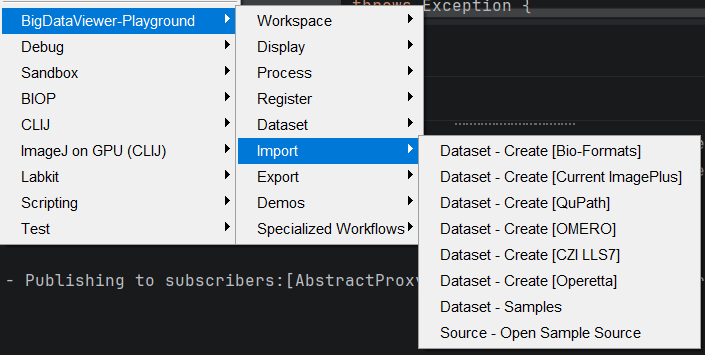
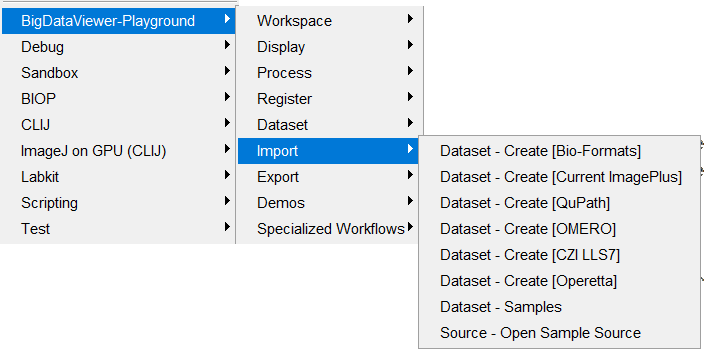
Adds some more details to dataset definition. Adds a bit more detail to the tree view Fix OMERO url in example. Fix images in opening_images.md Adds BVV limitation Moves image out of GUI tab Fix partially bdv navigation commands Fix menuselection Fix cache command parameters

diff --git a/docs/source/opening_images/opening_images.md b/docs/source/opening_images/opening_images.md
@@ -4,14 +4,19 @@ This guide covers how to get your image data into BigDataViewer Playground.
 
 ## What Is a Dataset?
 
-When you open images in BigDataViewer Playground, they become a **dataset**. Understanding what a dataset is will help you work with every other feature.
+When you open images in BigDataViewer Playground, they become a **dataset**. Understanding what a dataset is will help you work with every other feature. A dataset is composed of many sources, each source representing a XYZT pixel dataset. Each source has additional metadata, to specify their other properties within the dataset (channel, tile, illumination, etc.). 
 
-A dataset is a unified representation of your images that holds two things:
+A dataset is a unified representation of your images that holds three things:
 
 1. **A recipe to read the raw data** — the dataset doesn't copy your pixels. It stores a reference to the original source (a file on disk, an OMERO server, a QuPath project, etc.) and reads data on demand.
 2. **Spatial metadata** — position, orientation, and calibration of each image, stored as a chain of 3D affine transforms. Each channel and timepoint can have its own chain of transforms.
+3. **Source metadata** — channel name and index, tiles, angle, illumination, etc. These are also called `Entities` in BigDataViewer's jargon. This helps to regroup source by kind (all tiles of channel 2, for instance).
 
 This design means you can open terabyte-scale images instantly — no data is loaded until you actually look at it or export it. And when you register, drift-correct, or transform your data, those operations simply add transforms to the chain rather than rewriting pixels.
+
+:::{note}
+The pixel data from a Dataset are 'immutable', this means that you can't modify the pixel data of the dataset. Think of this as a "read-only" file. However you'll be able to compute new data resulting from the processing of Datasets, which can then be saved and exported as new Datasets. 
+:::
 
 ### Saving and Reloading Datasets
 
@@ -19,7 +24,7 @@ Datasets can be **saved to an XML file** and reloaded later. The XML file stores
 
 - Which backend to use (Bio-Formats, OMERO, etc.) and how to reach the raw data
 - The full chain of affine transforms for each channel and timepoint
-- Display settings
+- Other sources metadata and display settings (color, min max display range)
 
 This means you can set up a complex multi-image, multi-channel dataset, save it, and pick up exactly where you left off — or share it with a collaborator who has access to the same raw files.
 
@@ -37,15 +42,21 @@ All images you open appear in the **BigDataViewer Playground** panel, accessible
 
 ![The BDV Playground window showing the sources tree after opening the LLS7 dataset](images/sources_tree_BDV_Sources.png)
 
-The panel displays a **tree of sources**. Think of it as a pipeline of filters: every source you have opened lives at the root, and child nodes progressively narrow down the selection — by dataset, by channel, by tile, by timepoint, and so on. Because the filtering is additive, the same physical source can appear under multiple leaf nodes simultaneously.
+The panel displays a **tree of sources**. Think of it as a pipeline of filters: every source you have opened lives at the root, and child nodes progressively narrow down the selection — by dataset, by channel, by tile, by timepoint, and so on. The same source can appear under multiple leaf nodes simultaneously.
 
 For example, after opening a two-channel 3-D acquisition you might see:
 
 ```
 All Sources
-└── Hela-Kyoto-1-Timepoint-LLS7          ← dataset filter
-    ├── Channel 0                          ← channel filter
-    └── Channel 1
+└── Hela-Kyoto-1-Timepoint-LLS7         ← dataset filter                          
+    ├── All Sources
+    |       ├── Source Ch0 
+    |       └── Source Ch1
+    └── Channel                       
+        ├── Channel 0                   ← channel 0 filter
+        |       └── Source Ch0
+        └── Channel 1                   ← channel 1 filter 
+                └── Source Ch1
 ```
 
 **Interactions:**
@@ -189,7 +200,7 @@ cs.run(DatasetFromImagePlusCreateCommand, True,
 
 ### Dataset - Create [OMERO]
 
-Creates a dataset from images stored on an OMERO server. You must connect to the server first using `Plugins > BIOP > OMERO > Omero - Connect`.
+Creates a dataset from images stored on an OMERO server. You can connect to the server first using `Plugins > BIOP > OMERO > Omero - Connect`, or you will be prompted to connect if you're not yet connected to the server. 
 
 | Parameter | Description |
 |-----------|-------------|
@@ -217,7 +228,7 @@ run("Dataset - Create [OMERO]");
 import ch.epfl.biop.bdv.img.omero.command.DatasetFromOMEROCreateCommand
 
 cs.run(DatasetFromOMEROCreateCommand, true,
-    "omero_urls", "omero://your-server/image/1234",
+    "omero_urls", "https://omero.myorg.org/webclient/?show=image-1234,https://omero.myorg.org/webclient/?show=image-1235",
     "datasetname", "My OMERO Dataset",
     "plane_origin_convention", "TOP LEFT",
     "unit", "MICROMETER"
@@ -232,7 +243,7 @@ cs.run(DatasetFromOMEROCreateCommand, true,
 from ch.epfl.biop.bdv.img.omero.command import DatasetFromOMEROCreateCommand
 
 cs.run(DatasetFromOMEROCreateCommand, True,
-    ["omero_urls", "omero://your-server/image/1234",
+    ["omero_urls", "https://omero.myorg.org/webclient/?show=image-1234,https://omero.myorg.org/webclient/?show=image-1235",
      "datasetname", "My OMERO Dataset",
      "plane_origin_convention", "TOP LEFT",
      "unit", "MICROMETER"]
@@ -416,7 +427,7 @@ See the [LLS7 Timelapse workflow](../workflows/lls7_timelapse.md) for a complete
 
 ### Dataset - Samples
 
-Opens a sample dataset for testing and exploration. Downloads and caches on first use.
+Opens a sample dataset for testing and exploration. Downloads and caches (in `/home/CachedSamples/`) on first use.
 
 | Parameter | Description |
 |-----------|-------------|
@@ -585,7 +596,7 @@ cs.run(DatasetEntitiesRemoveCommand, True,
 
 ### Dataset - Make BigStitcher Compatible
 
-Converts a BigDataViewer Playground XML dataset to BigStitcher format.
+Converts a BigDataViewer Playground XML dataset to BigStitcher format. Essentially, this command will add a transform that will make each pixel of size 1 in XY, which is a BigStitcher convention.
 
 | Parameter | Description |
 |-----------|-------------|

diff --git a/docs/source/workspace/workspace.md b/docs/source/workspace/workspace.md
@@ -4,9 +4,8 @@ The workspace is the central hub of BigDataViewer Playground. It keeps track of 
 
 All workspace commands are found under:
 
-```
-Menu: Plugins > BigDataViewer-Playground > Workspace
-```
+
+{menuselection}`Plugins --> BigDataViewer-Playground --> Workspace`
 
 ---
 
@@ -14,9 +13,7 @@ Menu: Plugins > BigDataViewer-Playground > Workspace
 
 The main workspace interface is a window with a **hierarchical tree view** showing all sources currently loaded in the session.
 
-```
-Menu: Plugins > BigDataViewer-Playground > Workspace > Show BDV Playground Window
-```
+{menuselection}`Plugins --> BigDataViewer-Playground --> Workspace --> Show BDV Playground Window`
 
 This window is your primary way of interacting with sources outside of the viewers. Key interactions:
 
@@ -25,7 +22,7 @@ This window is your primary way of interacting with sources outside of the viewe
 - **Select multiple sources** to apply batch operations (e.g. show all selected sources in a viewer, export them together, apply the same transform)
 - Organize sources into **groups** for easier management
 
-The tree is organized hierarchically: datasets appear as top-level nodes, with individual channels, tiles, and timepoints nested below. As you process sources (fuse, classify, resample, etc.), the resulting virtual sources also appear in the tree.
+The tree is organized hierarchically: datasets appear as top-level nodes, with individual channels, tiles, and timepoints nested below. As you process sources (fuse, classify, resample, etc.), the resulting sources also appear in the tree, under the `Other Sources` node.
 
 :::{tip}
 If you close the BDV Playground window by accident, re-open it with **Show BDV Playground Window**. Your sources are not lost — the window is just a view into the workspace, not the workspace itself.
@@ -250,7 +247,7 @@ cs.run(SourceInspectCommand, True,
 
 ## State Save and Load
 
-You can save the entire workspace state — all sources, their display settings, and their transforms — to a JSON file, and restore it later. This is different from saving a dataset XML: the state captures *everything* in the workspace, including virtual sources created by processing commands.
+You can save the entire workspace state — all sources, their display settings, and their transforms — to a JSON file, and restore it later. This is different from saving a dataset XML: the state captures *everything* in the workspace, including virtual (lazy-computed) sources created by processing commands. Note: the processed data is not saved, but rather the "recipe" to compute data, which makes the saving near instantaneous. 
 
 ### State - Save
 
@@ -400,15 +397,24 @@ Use Dataset XML for archiving and sharing. Use State for checkpointing complex a
 
 ## Cache Options
 
-BigDataViewer Playground uses a cache to store recently accessed image tiles in memory, so that scrolling back to a region you've already visited is instantaneous. The cache settings control how much memory is allocated to this cache.
+BigDataViewer Playground uses a cache to store recently accessed image tiles in memory, so that scrolling back to a region you've already visited is instantaneous. The cache settings control how much memory is allocated to this cache, and the backing cache mechanism.
 
-| Parameter | Description |
-|-----------|-------------|
-| Cache type | Cache implementation to use |
-| Cache size (MB) | Fixed cache size in megabytes |
+There are three mutually exclusive memory bounds that you can set:
+1. Set a fixed amount of RAM for the pixel data cache
+2. Set a fixed amount of RAM for the rest of the application
+3. Set a ratio of total RAM available to the JVM for pixel data cache
+
+If you choose a method, let's say method `2.`, you need to set the other parameters to `-1`.
+
+To illustrate the modes, let's imagine the application can use up to 200Gb RAM. The three modes will be equivalent if: you choose option 1 with 150Gb (50Gb remaining for app), or if you choose option 2 with 50Gb (150Gb for pixel cache), or if you choose option 3 with 75% (200Gb * 0.75 = 150Gb cache for pixel data).
+
+| Parameter | Description                                                           |
+|-----------|-----------------------------------------------------------------------|
+| Cache type | Cache implementation to use (`LinkedHashMap` or `Caffeine`)               |
+| Cache size (MB) | Fixed cache size in megabytes                                         |
 | Reserved memory (MB) | Memory reserved for the rest of the application (Fiji, plugins, etc.) |
-| Memory ratio (%) | Percentage of available memory to allocate to the cache |
-| Log interval (ms) | Interval between cache log messages (negative to disable) |
+| Memory ratio (%) | Percentage of available memory to allocate to the cache               |
+| Log interval (ms) | Interval between cache log messages (negative to disable)             |
 
 :::{important}
 Cache options take effect only after restarting Fiji.
@@ -433,11 +439,11 @@ run("Set Cache Options (Needs Restart)");
 import sc.fiji.bdvpg.command.workspace.CacheOptionsSetCommand
 
 cs.run(CacheOptionsSetCommand, true,
-    "cache_type", "BOUNDED",
-    "mem_for_cache_mb", 512,
-    "mem_for_everything_else_mb", 256,
-    "mem_ratio_pc", 50,
-    "log_ms", -1
+    "cache_type", "LinkedHashMap",
+    "mem_for_cache_mb", 128000,
+    "mem_for_everything_else_mb", -1,
+    "mem_ratio_pc", -1,
+    "log_ms", 1000
 ).get()
 ```
 ::::
@@ -449,17 +455,14 @@ cs.run(CacheOptionsSetCommand, true,
 from sc.fiji.bdvpg.command.workspace import CacheOptionsSetCommand
 
 cs.run(CacheOptionsSetCommand, True,
-    ["cache_type", "BOUNDED",
-     "mem_for_cache_mb", 512,
-     "mem_for_everything_else_mb", 256,
-     "mem_ratio_pc", 50,
-     "log_ms", -1]
+    ["cache_type", "LinkedHashMap",
+     "mem_for_cache_mb", 128000,
+     "mem_for_everything_else_mb", -1,
+     "mem_ratio_pc", -1,
+     "log_ms", 1000]
 ).get()
 ```
 ::::
 
 :::::
 
-:::{tip}
-If BigDataViewer feels sluggish when navigating large datasets, increasing the cache size can help — it allows more tiles to stay in memory. Conversely, if Fiji runs out of memory during processing, reduce the cache size to leave more room for other operations.
-:::

diff --git a/docs/source/visualizing_images/visualizing_images.md b/docs/source/visualizing_images/visualizing_images.md
@@ -7,6 +7,10 @@ BigDataViewer Playground provides two types of viewers:
 - **BDV (BigDataViewer)** — a 2D slice viewer that lets you navigate freely through 3D data by slicing at any orientation. This is the primary viewer for most tasks.
 - **BVV (BigVolumeViewer)** — a GPU-accelerated 3D volume renderer that shows your data as a translucent volume. Useful for getting a spatial overview of 3D structures.
 
+:::{note}
+BVV has some limitations compared to BDV: you can't display non-linear warped sources, and you can't display hundreds of sources at the same time, something that BDV handles generally gracefully.
+:::
+
 Both viewers share the same lazy-loading architecture: only the pixels currently visible on screen are fetched, so even terabyte-scale datasets can be explored interactively.
 
 All display commands are found under:
@@ -33,12 +37,13 @@ The most common way to visualize your data. Creates a new BDV window and display
 If you have already opened a BDV window and want to add more sources to it, uncheck **Open In New Window**. The sources will be added to the last active BDV window.
 :::
 
+![BDV window displaying two channels of the LLS7 HeLa dataset](images/bdv_show_sources_BigDataViewer.png)
+
 :::::{tab-set}
 
 ::::{tab-item} GUI
 {menuselection}`Plugins --> BigDataViewer-Playground --> Display --> BDV --> BDV - Show Sources`
 
-![BDV window displaying two channels of the LLS7 HeLa dataset](images/bdv_show_sources_BigDataViewer.png)
 ::::
 
 ::::{tab-item} IJ Macro
@@ -182,27 +187,21 @@ BigDataViewer uses a combination of mouse and keyboard controls for navigation. 
 
 ### Mouse Controls
 
-| Action | Effect |
-|--------|--------|
-| Left-click + drag | Pan (translate) the view |
+| Action                                      | Effect |
+|---------------------------------------------|--------|
+| Left-click + drag                           | Pan (translate) the view |
 | Right-click + drag (or middle-click + drag) | Rotate the view in 3D |
-| Scroll wheel | Zoom in/out |
-| Shift + scroll wheel | Walk through Z slices (translate along the viewing axis) |
+| Scroll wheel                                | Zoom in/out |
+| Shift + scroll wheel                        | Walk through Z slices (translate along the viewing axis) |
 
 ### Keyboard Shortcuts
 
 | Key | Effect |
 |-----|--------|
-| {kbd}`X` / {kbd}`Y` / {kbd}`Z` | Align the view to the X, Y, or Z axis |
-| {kbd}`Shift+X` / {kbd}`Shift+Y` / {kbd}`Shift+Z` | Align to the opposite direction of that axis |
+| {kbd}`Shift+X` / {kbd}`Shift+Y` / {kbd}`Shift+Z` | Align the view to the X, Y, or Z axis |
 | {kbd}`I` | Toggle between nearest-neighbor and interpolated rendering |
-| {kbd}`S` | Toggle brightness/contrast dialog |
-| {kbd}`F6` | Toggle visibility settings (choose which sources are shown) |
-| {kbd}`T` | Toggle timepoint slider |
 | {kbd}`[` / {kbd}`]` | Step backward/forward through timepoints |
-| {kbd}`Numpad 1`–`0` | Toggle visibility of source 1–10 |
-| {kbd}`Shift+Numpad 1`–`0` | Toggle whether source 1–10 belongs to the current group |
-| {kbd}`F` | Set the view transform to show the entire dataset |
+TODO: UP and DOWN and blue arrow
 
 :::{note}
 These are the default BigDataViewer key bindings. They can be customized via **BDV - Preferences - Set (Key) Bindings**.
